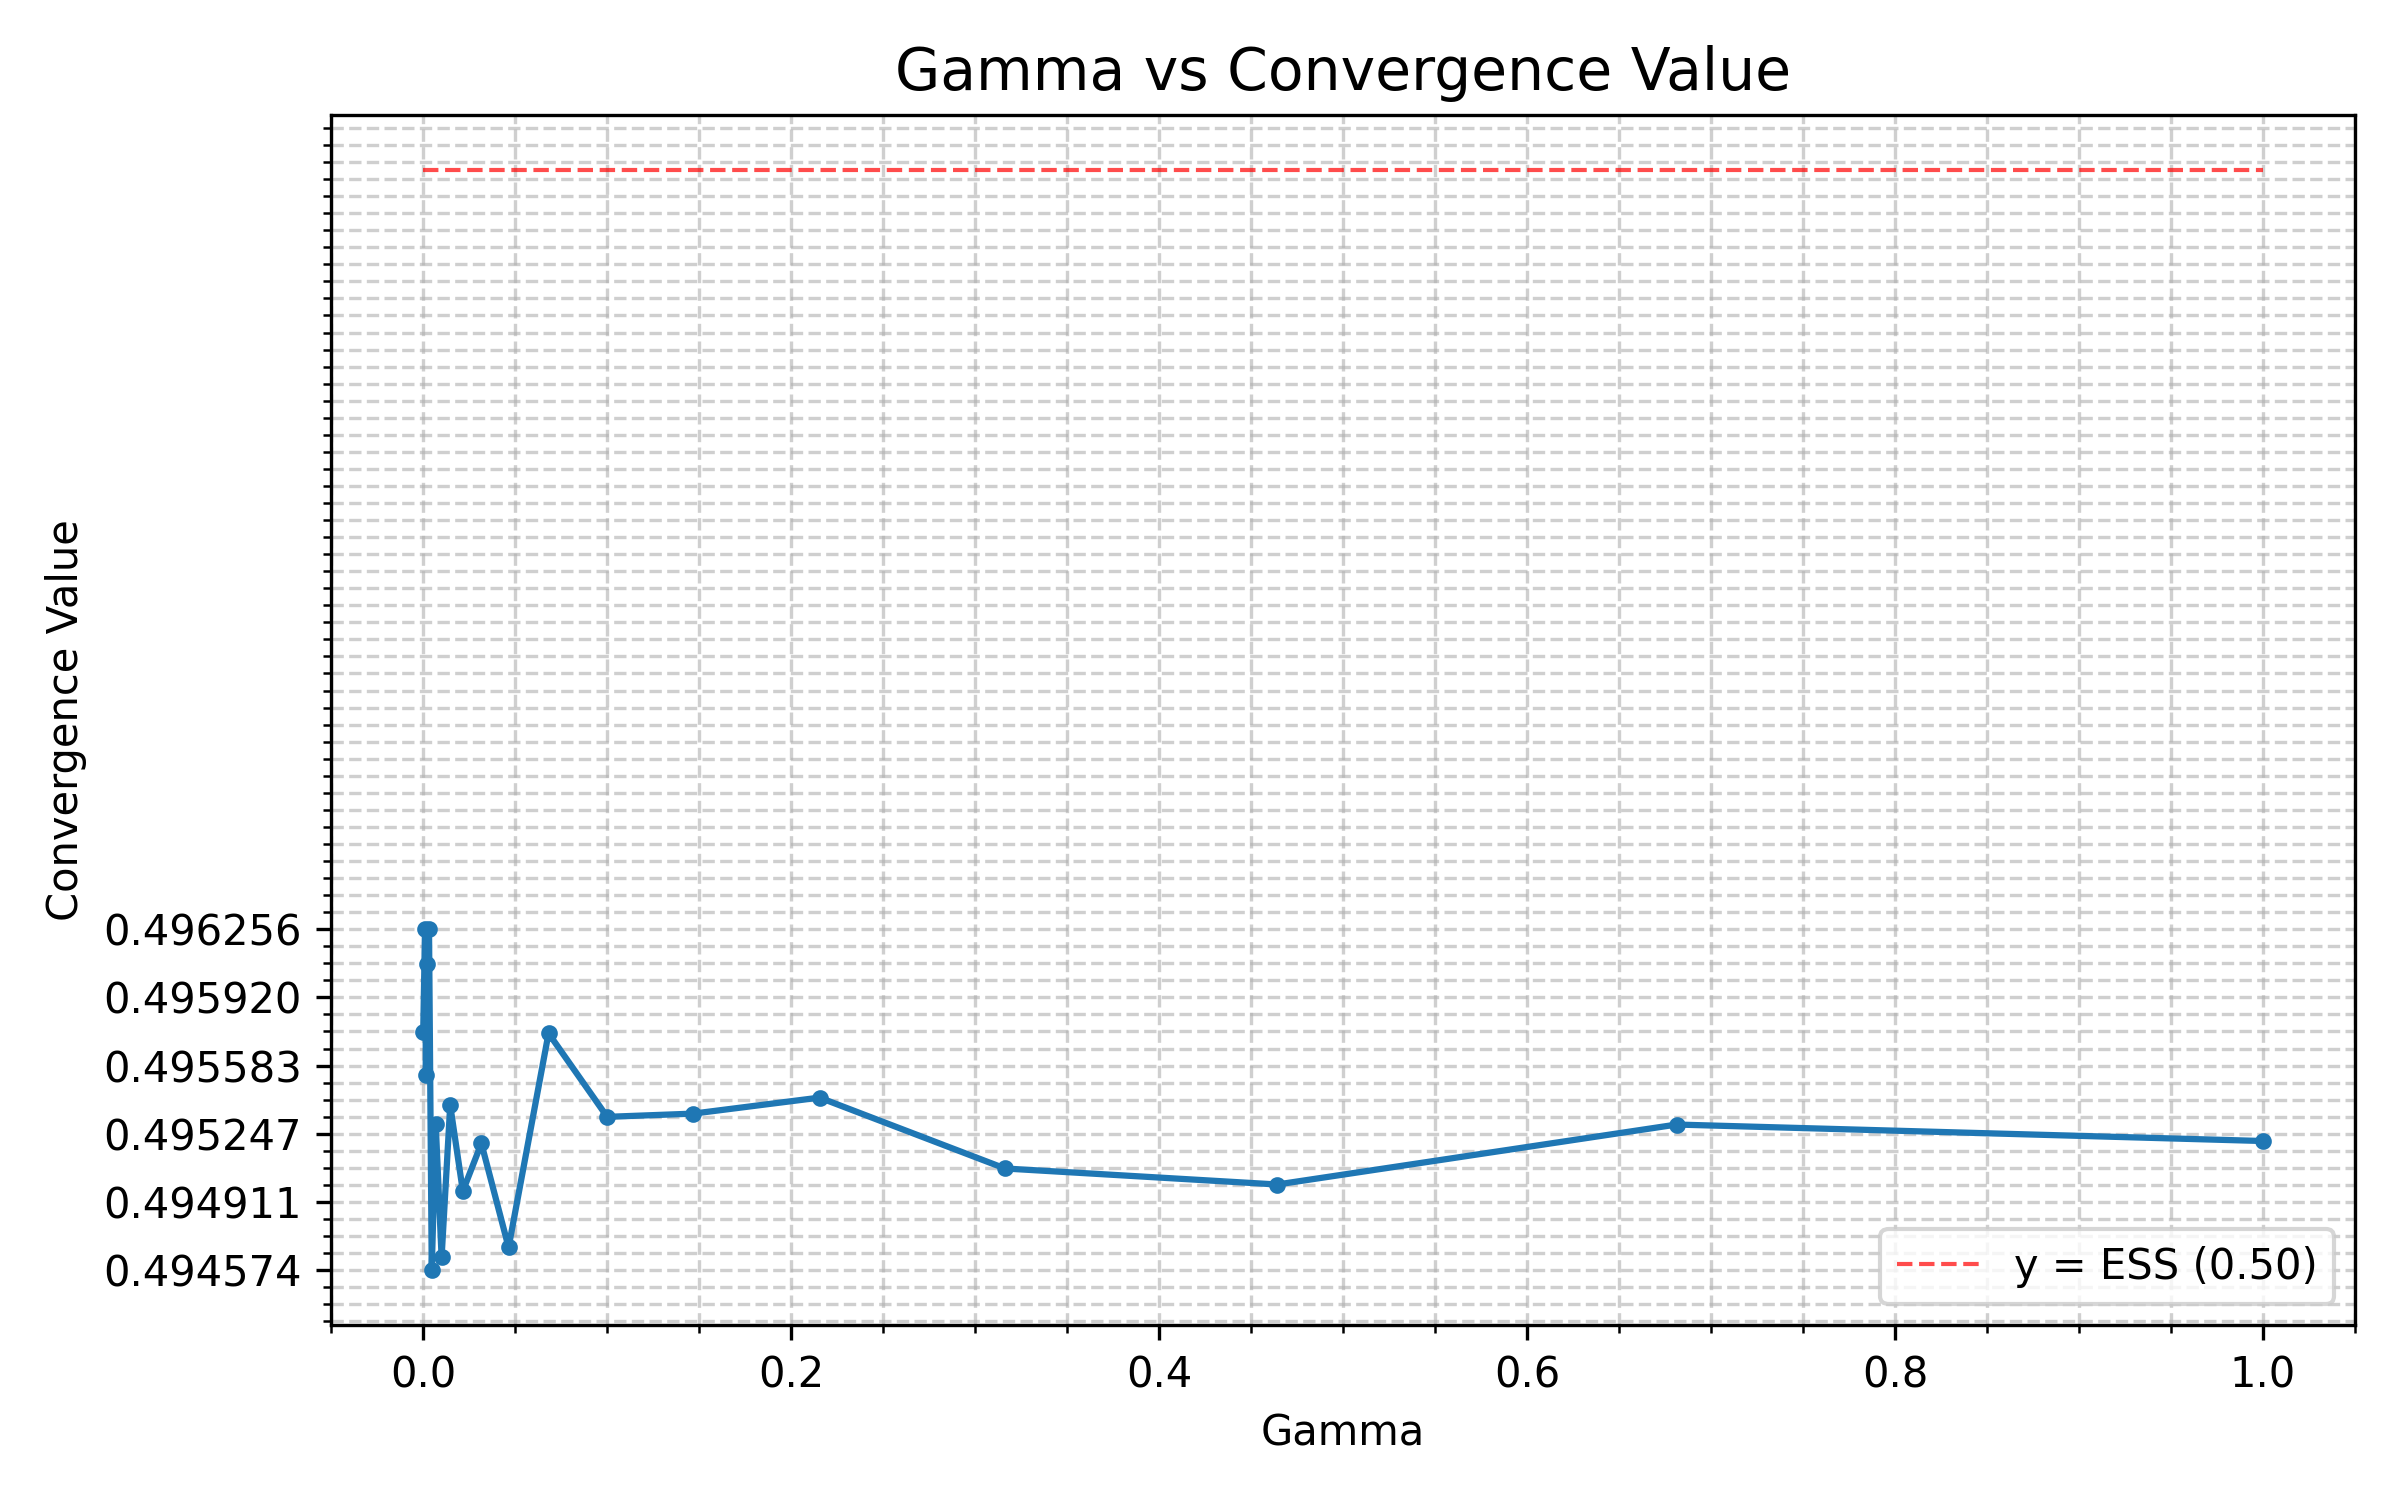
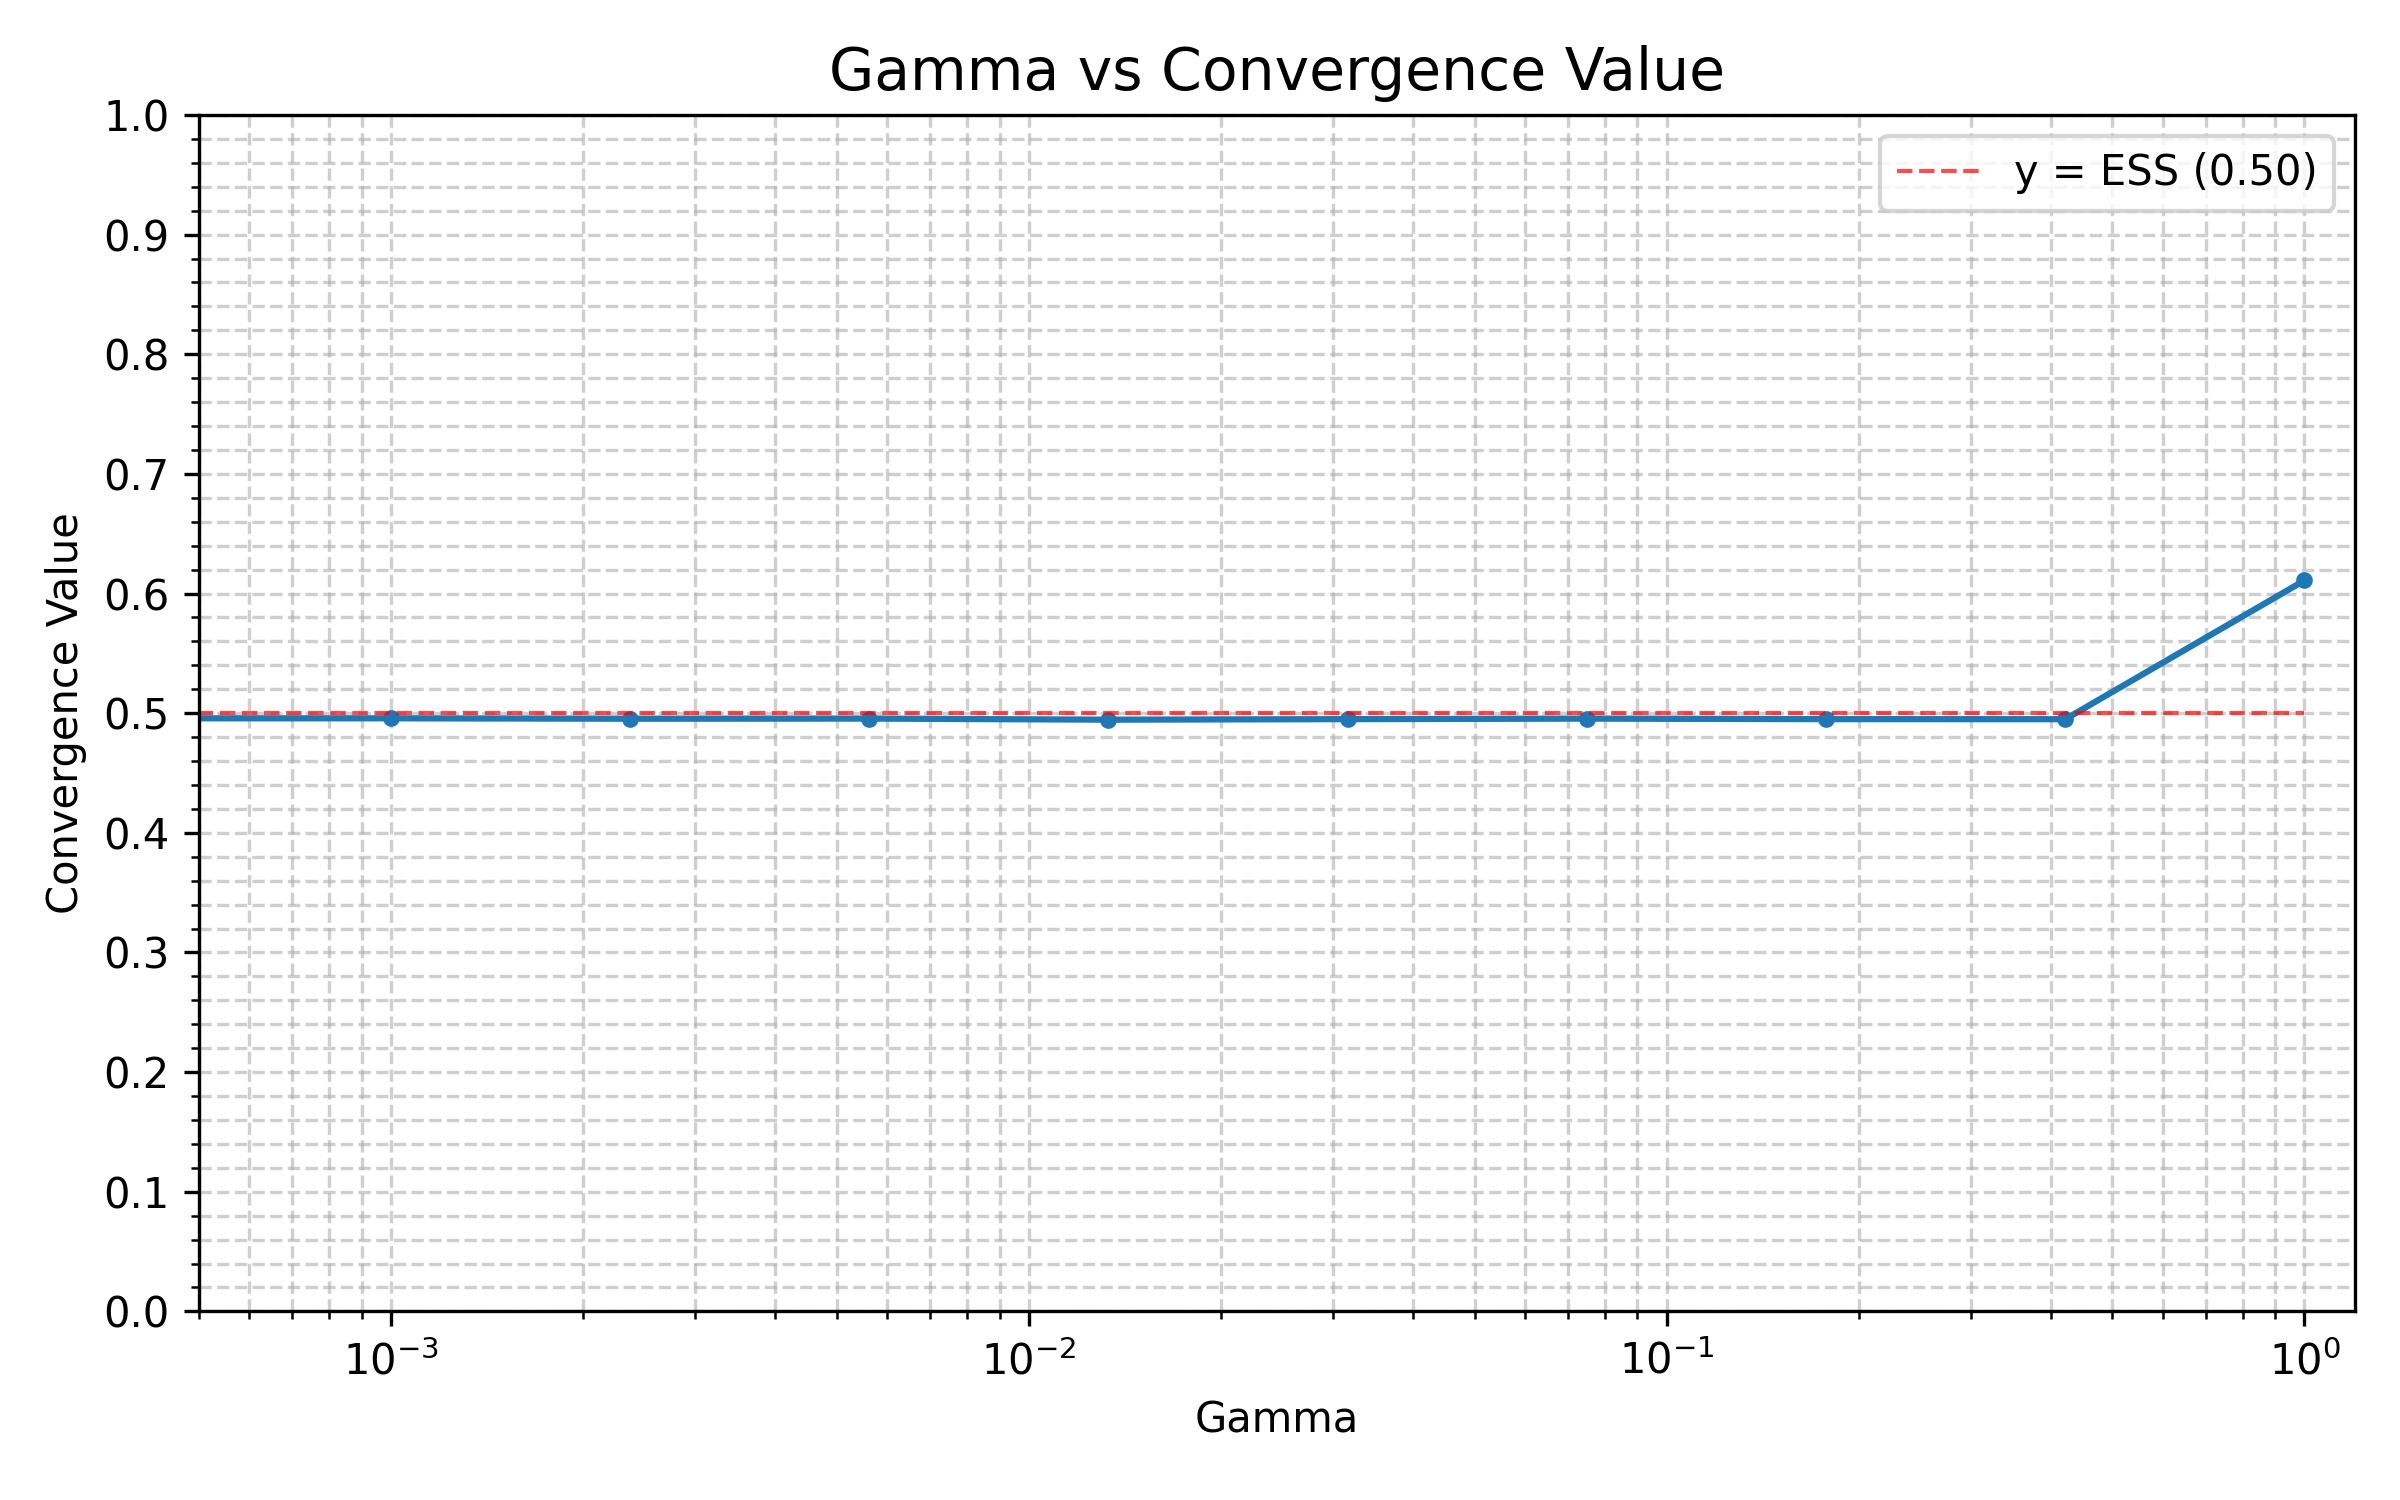
test

Changed region(s): [[0.0, 0.0307, 1.0, 0.92], [0.5, 0.92, 0.5938, 0.9813]]

diff --git a/src/sandbox.py b/src/sandbox.py
@@ -219,25 +219,18 @@ class Sandbox:
 
         ax = plt.gca()
 
-        x_min, x_max = param_range.min(), param_range.max()
-        if x_max <= 1.0:
-            x_ticks = np.linspace(0, x_max, 6)
-        else:
-            x_ticks = np.linspace(0, x_max, 6)
-        
-        y_min, y_max = convergences.min(), convergences.max()
-        y_range = y_max - y_min
-        if y_range <= 0.1:
-            y_ticks = np.linspace(y_min, y_max, 6)
-        else:
-            y_ticks = np.arange(0, 1.1, 0.1)
+        ax.set_xscale('log')
+
+        ax.set_xlim(left=param_range[param_range > 0].min() * 0.5, right=param_range.max() * 1.2)
+        ax.set_ylim(bottom=0, top=1.0)
+
+        y_ticks = np.arange(0, 1.1, 0.1)
+        ax.set_yticks(y_ticks)
 
         ess_line = np.full_like(param_range, self.payoffs.ess)
         plt.plot(param_range, ess_line, 'r--', linewidth=1, alpha=0.7, label=f'y = ESS ({self.payoffs.ess:.2f})')
         plt.legend()
 
-        ax.set_xticks(x_ticks)
-        ax.set_yticks(y_ticks)
         ax.grid(True, which="both", linestyle="--", alpha=0.6)
         ax.minorticks_on()
 

diff --git a/REPORT.MD b/REPORT.MD
@@ -152,7 +152,7 @@ All simulation runs funnel through a single **`Sandbox`** class, which handles i
 For parameter sweeps, the code employs `multiprocessing.Pool` to parallelize multiple sandbox instances.
 Each worker reads the TOML config and writes back convergence results.
 This massively speeds up parametric plots.
-I have future plans to rewrite this project in C++ to take better advantage of threading, considering `multiprocessing` involves huge overheads via `fork()` syscalls and child process creation.
+I have future plans to rewrite this project in C++/Rust to take better advantage of threading, considering `multiprocessing` involves huge overheads via `fork()` syscalls and child process creation.
 
 ### **4.5 Graphing**
 
@@ -226,6 +226,15 @@ epsilon_decay_rate = 0.9999
 * **γ = 0:** only immediate payoffs matter (suitable for a one-shot symmetric game).
 * **α, ε decay = 0.9999:** extremely slow decay encourages early exploration and stable convergence, therefore letting expectations settle before freezing learning.
 
+### **6.1 Example Runs:***
+* For `B = 3` and `C = 2`:
+![32](runs/RUN_3_2_IDEAL.png)
+* For `B = 4` and `C = 2`:
+![32](runs/RUN_4_2_IDEAL.png)
+* `paramtest` epsilon decay:
+![32](epsilon_decay_rate_vs_convergence.png)
+* `paramtest` gamma:
+![32](gamma_vs_convergence.png)
 ---
 
 ## **7. Discussion**
@@ -234,11 +243,11 @@ This experiment shows that **Q-Learning can recover mixed ESS behaviour** in lar
 The mismatch between small-n runs and ESS predictions comes directly from sampling noise, random pairing, and asynchronous decays — all of which vanish in the mean-field limit.
 
 The final dynamics resemble a noisy discretization of the replicator equation:
-[
-x_{t+1} - x_t \approx \α_t, x_t(1-x_t),(f_C - f_D) + \text{noise}.
-]
-As (n) and (1/\α_t) grow, the noise term shrinks, and (x_t \to x^*).
+$$
+x_{t+1} - x_t \approx \alpha_t \cdot x_t(1-x_t) \cdot (f_C - f_D) + \text{noise}
+$$
 
+As $n$ and $1/\alpha_t$ grow, the noise term shrinks, and $x_t \to x^*$.
 ---
 
 ## **8. Conclusion**
